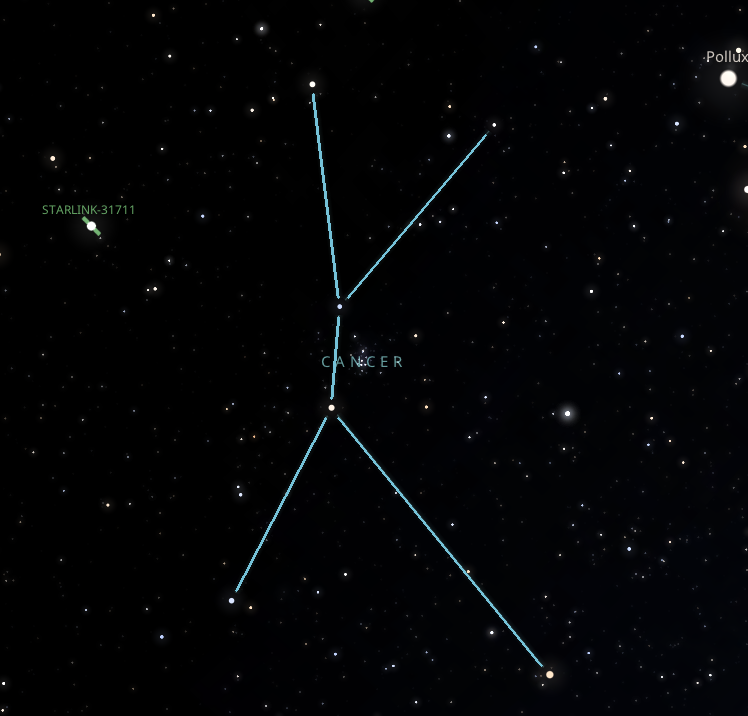
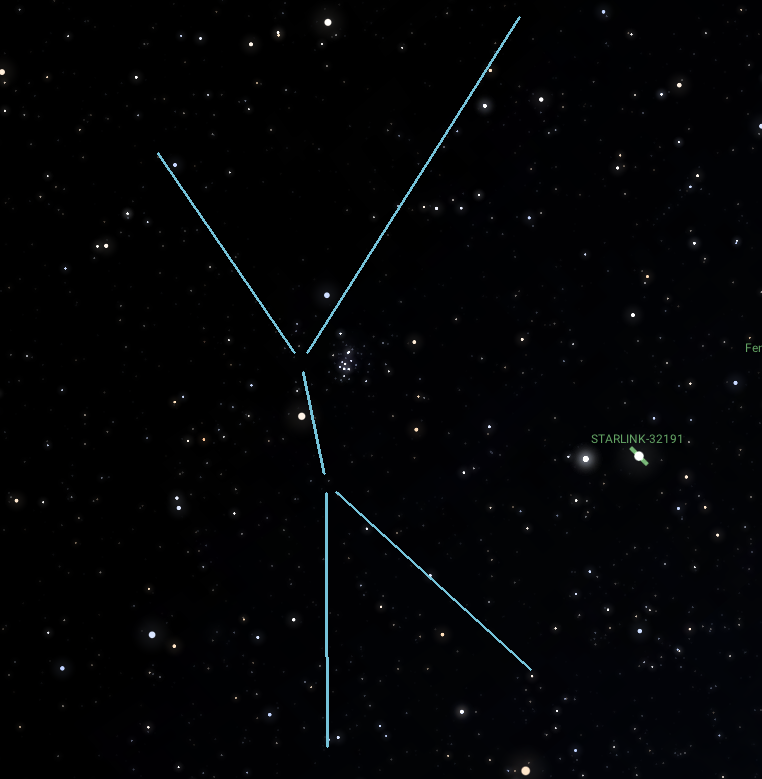
Changement mirroir cartography

diff --git a/cartography/ThresholdDetectMethod.py b/cartography/ThresholdDetectMethod.py
@@ -243,7 +243,7 @@ def main():
 
                     # Détection des étoiles avec un seuil basé sur l'écart-type robuste (MAD)
                     # sigma = mad_std(image_array)  # Calcul du bruit de fond
-                    image_final = inverse_cor(image_array)  # Correction d'orientation
+                    image_final = image_array
                     threshold_mask = image_final >= 0.7  # Seuil pour isoler les étoiles (à régler manuellement)
 
                     # Extraction des formes et calcul des coordonnées des étoiles
@@ -276,7 +276,7 @@ def main():
                         plt.pause(0.1)  # Pause courte pour éviter de surcharger le CPU
                     '''
 
-                    erase_txt()  # Vide le fichier txt après traitement
+                    #erase_txt()  # Vide le fichier txt après traitement
                     print("10. fichier txt vidé")
                     sys.stdout.flush()
                     

diff --git a/recognition/src/tsp/polaris/drawConstellation/DrawConstellation.java b/recognition/src/tsp/polaris/drawConstellation/DrawConstellation.java
@@ -5,10 +5,8 @@ import java.io.File;
 import java.io.IOException;
 import javax.imageio.ImageIO;
 import tsp.polaris.recognition.other.Point;
-import tsp.polaris.recognition.starSet.Constellation;
 import tsp.polaris.recognition.starSet.DetectedStarSet;
 
-import java.util.Arrays;
 import java.util.List;
 
 /**

diff --git a/recognition/src/tsp/polaris/recognition/Main.java b/recognition/src/tsp/polaris/recognition/Main.java
@@ -9,7 +9,6 @@ import tsp.polaris.recognition.other.Star;
 import tsp.polaris.recognition.starSet.Constellation;
 import tsp.polaris.recognition.starSet.DetectedStarSet;
 
-import java.io.File;
 import java.io.IOException;
 
 /**
